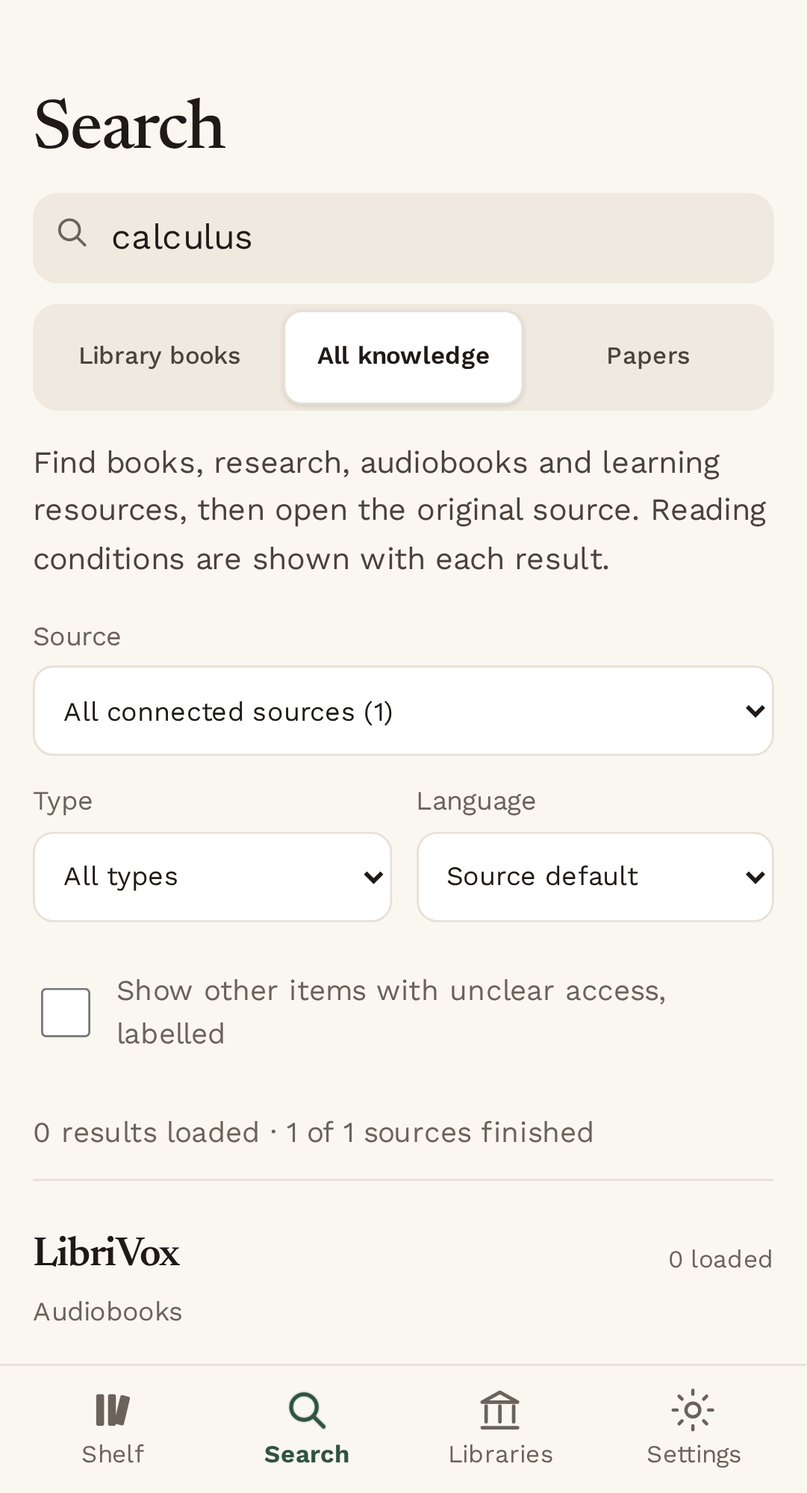
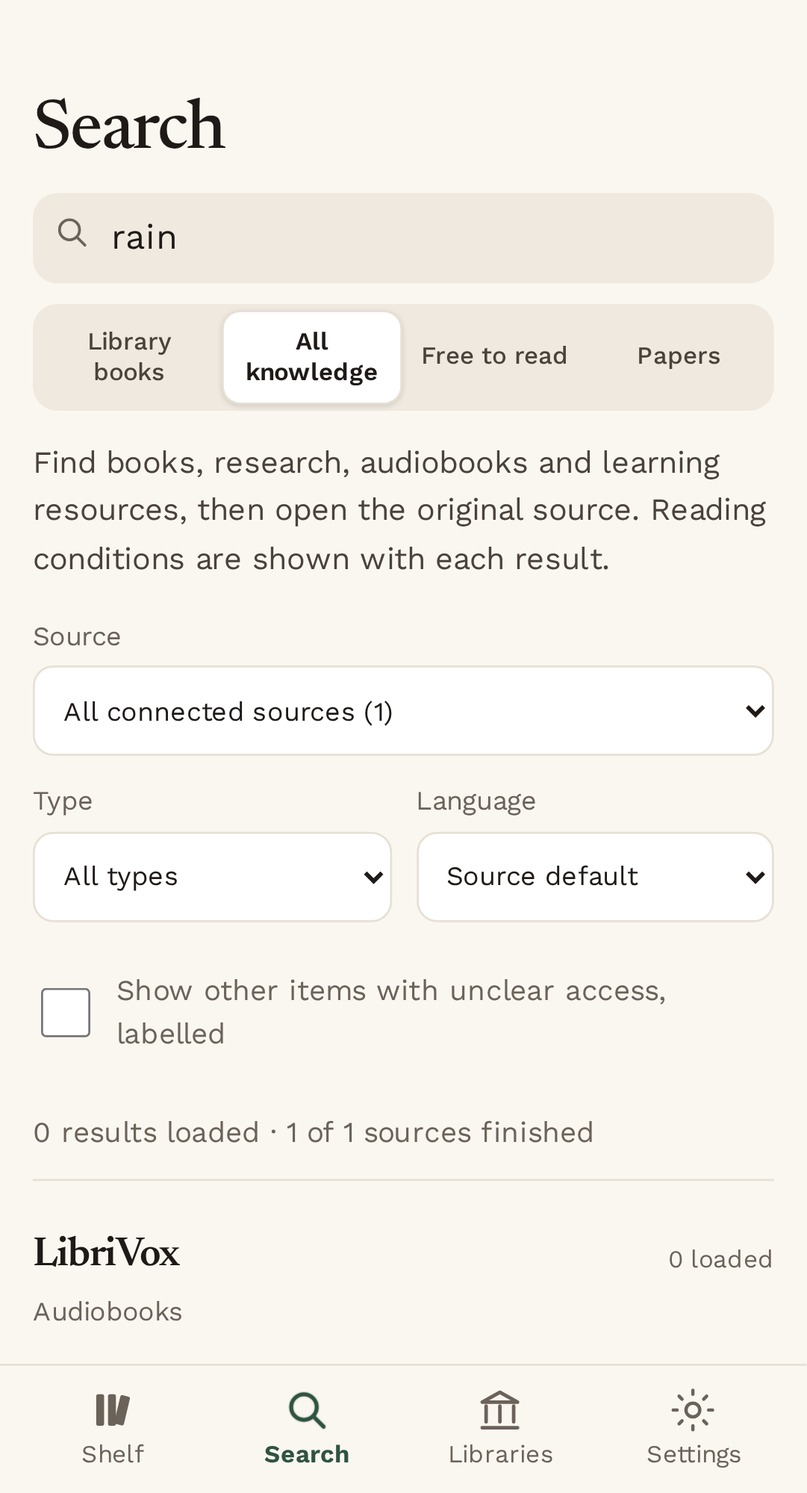
Keep checkbox-capable catalogs and remove the five below-target sources

Changed region(s): [[0.0916, 0.1551, 0.7021, 0.2791], [0.7632, 0.2171, 0.8853, 0.2481]]

diff --git a/client/src/v2/ui/content/ContentSearchPage.tsx b/client/src/v2/ui/content/ContentSearchPage.tsx
@@ -1,4 +1,4 @@
-import {localFreeSearchEnabled} from '../../../../../shared/content-source-availability.mjs';
+import {isContentSourceRetired} from '../../../../../shared/content-source-availability.mjs';
 import { useCallback, useEffect, useRef, useState } from 'react';
 import { Link, useLocation, useNavigate } from 'react-router-dom';
 import { contentApi } from '../../contentApi';
@@ -21,7 +21,7 @@ const recentSearches=new Map<string,{query:string;scope:'free'|'papers';href:str
 
 export function SearchScopes({scope}:{scope:'library'|'free'|'papers'|'knowledge'}){
   const location=useLocation();const q=new URLSearchParams(location.search).get('q');
-  return <nav className="content-scopes segment-control" aria-label="Search scope">{(['library','knowledge','free','papers'] as const).filter(value=>value!=='free'||localFreeSearchEnabled).map(value=>
+  return <nav className="content-scopes segment-control" aria-label="Search scope">{(['library','knowledge','free','papers'] as const).map(value=>
     <Link key={value} className={scope===value?'selected':''} aria-current={scope===value?'page':undefined}
       to={'/app/search'+(value!=='library'||q?'?'+new URLSearchParams({...value!=='library'?{scope:value}:{},...q?{q}:{}}):'')}>{value==='library'?'Library books':value==='knowledge'?'All knowledge':value==='free'?'Free to read':'Papers'}</Link>)}</nav>;
 }
@@ -92,7 +92,7 @@ export function ContentSearchPage({scope}:{scope:'free'|'papers'}) {
     {!query&&!children?<div className="content-start"><p>{scope==='papers'?m.papersIntro:m.startIntro}</p><h2 className="content-section-label">Browse</h2><div className="content-browse">
         <Link to="/app/search?scope=free&q=literature"><ShelfIcon/><strong>Classic literature</strong><span>Project Gutenberg</span></Link>
         <Link to="/app/search?scope=free&collection=textbooks&q=education"><svg width="28" height="28" viewBox="0 0 28 28" fill="none" stroke="currentColor" strokeWidth="1.8" strokeLinejoin="round" aria-hidden="true"><path d="m2 10 12-5 12 5-12 5zM7 13v7c4 3 10 3 14 0v-7M25 11v8"/></svg><strong>Open textbooks</strong><span>Open Textbook Library</span></Link>
-        {import.meta.env.VITE_CHILDREN_PILOT_ENABLED==='true'?<Link to="/app/search?scope=free&collection=children"><OpenBookIcon/><strong>Children’s stories</strong><span>Reviewed set · pilot</span></Link>:<span aria-disabled="true"><OpenBookIcon/><strong>Children’s stories</strong><span>Reviewed starter set · not enabled yet</span></span>}
+        {!isContentSourceRetired('storyweaver')&&(import.meta.env.VITE_CHILDREN_PILOT_ENABLED==='true'?<Link to="/app/search?scope=free&collection=children"><OpenBookIcon/><strong>Children’s stories</strong><span>Reviewed set · pilot</span></Link>:<span aria-disabled="true"><OpenBookIcon/><strong>Children’s stories</strong><span>Reviewed starter set · not enabled yet</span></span>)}
         <Link to="/app/search?scope=papers"><svg width="24" height="24" viewBox="0 0 24 24" fill="none" stroke="currentColor" strokeWidth="1.7" aria-hidden="true"><path d="M5 2h9l5 5v15H5zM14 2v6h5M9 12h6M9 16h6"/></svg><strong>Research papers</strong><span>Open-access journals, preprints</span></Link></div>
         {recentSearches.size>0&&<section className="content-recents"><h2 className="content-section-label">Recent free searches</h2><ul>{Array.from(recentSearches.values()).reverse().map(recent=><li key={recent.href}><Link to={recent.href}><span aria-hidden="true">◷</span><span>{recent.query}</span>{recent.scope==='papers'&&<small>Papers</small>}</Link></li>)}</ul></section>}</div>:<>
       {(children||language||kind||level||(!busy&&!error&&!failed.length&&!!page?.items.length))&&<div className="content-filters">{children?<div className="content-languages" role="group" aria-label="Language">{[['','All languages'],['en','English'],['hi','हिन्दी'],['ta','தமிழ்']].map(([value,label])=><button key={value} type="button" lang={value||undefined} aria-pressed={language===value} onClick={()=>setLanguage(value)}>{label}</button>)}</div>:<label><span className="visually-hidden">Language</span><select aria-label="Language" value={searchLanguage} disabled={scope==='papers'} aria-describedby={scope==='papers'?'content-language-help':undefined} title={scope==='papers'?'Language filtering across paper sources is not available yet.':undefined} onChange={e=>setLanguage(e.target.value)}>
@@ -104,10 +104,10 @@ export function ContentSearchPage({scope}:{scope:'free'|'papers'}) {
         {children&&<label><span className="visually-hidden">Publisher level</span><select aria-label="Publisher level" value={level} disabled={!page?.availableLevels?.length} onChange={e=>setLevel(e.target.value)}><option value="">All publisher levels</option>{page?.availableLevels?.map(label=><option key={label} value={label}>{label}</option>)}</select></label>}
       </div>}
       {children&&<p className="content-coverage">Levels are as the publisher labels them; they do not imply an age.</p>}
-      {textbooks&&<p className="content-coverage">Open textbooks · <Link to={'/app/search?scope=knowledge&q='+encodeURIComponent(query)}>Search all free books</Link>. This catalog export does not supply languages; a language filter excludes those records.</p>}
+      {textbooks&&<p className="content-coverage">Open textbooks · <Link to={'/app/search?scope=free&q='+encodeURIComponent(query)}>Search all free books</Link>. This catalog export does not supply languages; a language filter excludes those records.</p>}
       {busy&&<div className="content-loading" role="status"><p className="visually-hidden">Checking sources…</p><ul className="content-source-list">{progress.map(source=><li key={source.id}><span><span className={source.status==='ok'?'access-free':undefined} aria-hidden="true">{source.status==='ok'?'✓':source.status==='queued'?'–':'○'}</span>{' '}{sourceName(source)}</span><span>{source.status==='ok'?(source.returned?`${source.returned} found`:'Answered'):sourceStatus(source)}</span></li>)}</ul><p>{m.loading}</p><div className="content-skeletons" aria-hidden="true"><span/><span/><span/></div></div>}
       {error&&<div className={'content-notice content-outage'+(disabled||restartRequired?' content-disabled':'')} role="alert">{disabled||restartRequired?<OpenBookIcon/>:<svg width="40" height="40" viewBox="0 0 24 24" fill="none" stroke="currentColor" strokeWidth="1.8" strokeLinecap="round" aria-hidden="true"><path d="m3 3 18 18M2 8c5-5 15-5 20 0M5 12c3-3 11-3 14 0M8 16c2-2 6-2 8 0M12 20h.01"/></svg>}<h2>{errorTitle}</h2><p>{disabled&&scope==='papers'?'Choose a connected source in Sources, open a source website, or search free books.':error.message}</p>
-        {!disabled&&!restartRequired&&<p>This does not mean there is no free copy.</p>}<div className="content-outage-actions">{disabled?scope==='papers'&&<Link className="button-link" to={'/app/search?'+new URLSearchParams({scope:'knowledge',q:query})}>Search all knowledge instead</Link>:<button onClick={again}>{restartRequired?'Search again':'Try again'}</button>}<Link className="button-link button-quiet" to={'/app/search?q='+encodeURIComponent(query)}>Search library books instead</Link></div>
+        {!disabled&&!restartRequired&&<p>This does not mean there is no free copy.</p>}<div className="content-outage-actions">{disabled?scope==='papers'&&<Link className="button-link" to={'/app/search?'+new URLSearchParams({scope:'free',q:query})}>Search free books instead</Link>:<button onClick={again}>{restartRequired?'Search again':'Try again'}</button>}<Link className="button-link button-quiet" to={'/app/search?q='+encodeURIComponent(query)}>Search library books instead</Link></div>
         {sources.length>0&&<button className="text-button" onClick={()=>setSourcesOpen(true)}>Sources</button>}</div>}
       {page&&<div className={'content-results-layout'+(desktop&&selected?' has-detail':'')}><div className="content-results">
         {page.searchMode==='live'&&<p className="content-coverage">Searching {answered.map(sourceName).join(', ')||'the selected source'} live. One source per search; use Sources to switch. Results can change between pages.</p>}

diff --git a/client/e2e/free-content-ui.spec.js b/client/e2e/free-content-ui.spec.js
@@ -5,6 +5,14 @@ import {startReviewStream} from '../../tools/content/ui-review-stream.mjs';
 
 test.describe('approved free-content UI behavior',()=>{
   test.skip(process.env.FREE_CONTENT_E2E!=='true','Requires the feature-enabled build');
+  test('recent searches are real same-tab queries and clearing returns to browse',async({page,baseURL})=>{
+    await installContentReviewFixture(page,'FreeStart');await openReviewState(page,'FreeStart',baseURL);
+    await expect(page.getByRole('heading',{name:'Recent free searches'})).toBeVisible();
+    await page.getByRole('link',{name:/jane austen/}).click();await expect(page).toHaveURL(/q=jane\+austen/);
+    await page.reload();await page.getByLabel('Search free books',{exact:true}).fill('');await page.getByRole('button',{name:'Search',exact:true}).click();
+    await expect(page.getByRole('link',{name:/Classic literature/})).toBeVisible();
+    expect(await page.evaluate(()=>Object.values(localStorage).join(' ').includes('jane austen'))).toBe(false);
+  });
   test('type filtering changes the request and result kinds',async({page,baseURL})=>{
     const calls=await installContentReviewFixture(page,'PaperResults');await openReviewState(page,'PaperResults',baseURL);
     await page.getByLabel('Content type',{exact:true}).selectOption('preprint');
@@ -26,6 +34,26 @@ test.describe('approved free-content UI behavior',()=>{
     expect(calls.filter(call=>call.endpoint==='search').at(-1).body).toMatchObject({cursor:'synthetic-review-session',retrySource:'arxiv'});
     await expect(page.getByRole('heading',{name:'arXiv didn’t answer in time'})).toHaveCount(0);
   });
+  test('an empty successful search lists zero matches for each answered source',async({page,baseURL})=>{
+    await installContentReviewFixture(page,'NoFreeCopy');await openReviewState(page,'NoFreeCopy',baseURL);
+    await expect(page.locator('.content-empty .content-source-list li')).toHaveCount(2);
+    await expect(page.locator('.content-empty')).toContainText('Project Gutenberg');
+    await expect(page.locator('.content-empty')).toContainText('Open Textbook Library');
+    await expect(page.locator('.content-empty').getByText('0 matches',{exact:true})).toHaveCount(2);
+  });
+  test('desktop selection follows Back and survives resizing to a phone',async({page,baseURL})=>{
+    await page.setViewportSize({width:1280,height:900});await installContentReviewFixture(page,'FreeBookResults');
+    await openReviewState(page,'FreeBookResults',baseURL);
+    const row=await page.locator('.content-result').first().boundingBox();
+    await page.mouse.click(row.x+row.width-5,row.y+row.height-5);
+    await expect(page.locator('.content-detail h1')).toHaveText('Pride and Prejudice');
+    await expect(page.locator('.content-result.is-selected h2 a')).toHaveAttribute('aria-current','true');
+    await page.getByRole('heading',{name:'Emma',exact:true}).getByRole('link').click();await expect(page.locator('.content-detail h1')).toHaveText('Emma');
+    await page.goBack();await expect(page.locator('.content-detail h1')).toHaveText('Pride and Prejudice');
+    await page.setViewportSize({width:390,height:844});await expect(page.locator('.content-detail h1')).toHaveText('Pride and Prejudice');
+    await expect(page.locator('.content-read')).toBeVisible();await page.locator('.content-toolbar .back-link').click();
+    await expect(page.locator('.content-result')).toHaveCount(3);
+  });
   test('bookmark, supplied formats and separate versions remain usable by keyboard',async({page,baseURL})=>{
     await installContentReviewFixture(page,'PaperDetail');await openReviewState(page,'PaperDetail',baseURL);
     await expect(page.locator('.content-detail .content-cover')).toHaveCount(0);
@@ -44,6 +72,11 @@ test.describe('approved free-content UI behavior',()=>{
     await expect(page).toHaveURL(/source=openalex/);
     await expect.poll(()=>calls.filter(call=>call.endpoint==='search').at(-1).body.sourceIds).toEqual(['openalex']);
   });
+  test('unclear access stays opt-in and can be hidden again',async({page,baseURL})=>{
+    await installContentReviewFixture(page,'FreeBookResults');await openReviewState(page,'FreeBookResults',baseURL);
+    await page.getByRole('button',{name:'Show them, labelled'}).click();await expect(page.getByRole('region',{name:'Unclear access'})).toBeVisible();
+    await page.getByRole('button',{name:'Hide them',exact:true}).click();await expect(page.getByRole('region',{name:'Unclear access'})).toHaveCount(0);
+  });
   test('loading shows actual streamed progress and static placeholders',async({page,baseURL})=>{
     const stream=await startReviewStream({upstreamOrigin:baseURL});try{
       await installContentReviewFixture(page,'Loading',{loadingUrl:stream.url});await openReviewState(page,'Loading',stream.origin);
@@ -54,5 +87,4 @@ test.describe('approved free-content UI behavior',()=>{
       expect(await page.locator('.content-skeletons span').first().evaluate(node=>getComputedStyle(node).animationName)).toBe('none');
     }finally{await stream.close();}
   });
-  // Retired local-book discovery is covered by metadata-search.spec.js; saved story reading remains covered separately.
 });

diff --git a/server/services/content/search.js b/server/services/content/search.js
@@ -20,7 +20,7 @@ const PROFILE='direct-live-v1';
 export function createContentService({env=process.env,local,paperAdapter=createEuropePmcAdapter(),
   adapters={},children,knowledge,now=()=>Date.now()}={}){
   local||=createLocalContentService({enabled:env.CONTENT_DISCOVERY_ENABLED==='true',cursorSecret:env.CONTENT_CURSOR_SECRET,now,
-    loadSnapshot:()=>readLocalSnapshots({includeChildren:env.CONTENT_CHILDREN_ENABLED==='true',now:now()})});
+    loadSnapshot:()=>readLocalSnapshots({includeChildren:env.CONTENT_CHILDREN_ENABLED==='true'&&!isContentSourceRetired('storyweaver'),now:now()})});
   const expanded=knowledge||createKnowledgeService({env,now});
   const providers={europepmc:paperAdapter,openalex:createOpenalexAdapter({apiKey:env.OPENALEX_API_KEY}),...adapters};
   const pilot=children||createChildrenService({enabled:env.CONTENT_DISCOVERY_ENABLED==='true'&&env.CONTENT_CHILDREN_ENABLED==='true',cursorSecret:env.CONTENT_CURSOR_SECRET,now});
@@ -89,13 +89,13 @@ export function createContentService({env=process.env,local,paperAdapter=createE
     locate(input){parseContentLocate(input);return localFreeSearchEnabled?local.locate(input):{items:[],policyRevision:CONTENT_POLICY_REVISION};},
     async search(input,{onSource=()=>{},signal}={}){
       const query=parseContentSearch(input);
-      if(query.sourceIds?.some(isContentSourceRetired)||query.collection==='children'&&!localFreeSearchEnabled||!localFreeSearchEnabled&&(!query.sourceIds?.length)&&(query.kinds.includes('book')||query.kinds.includes('learning_resource')))throw failure('CONTENT_DISABLED','This source is no longer connected. Search the connected sources in All knowledge.',503);
+      if(query.sourceIds?.some(isContentSourceRetired)||query.collection==='children'&&isContentSourceRetired('storyweaver')||!localFreeSearchEnabled&&(!query.sourceIds?.length)&&(query.kinds.includes('book')||query.kinds.includes('learning_resource')))throw failure('CONTENT_DISABLED','This source is no longer connected. Search the connected sources in All knowledge.',503);
       if(query.sourceIds?.some(id=>KNOWLEDGE_SOURCES[id]))return expanded.search(input,{onSource,signal});
       if(query.collection==='children')return pilot.search(input);
       if(query.kinds.includes('book')||query.kinds.includes('learning_resource')){
         if(query.kinds.some(kind=>!['book','learning_resource'].includes(kind)))throw failure('CONTENT_FILTER_UNSUPPORTED','Choose free books or paper kinds for this search.',400);
         if(query.sourceIds?.some(id=>!LOCAL_CONTENT_SOURCES.includes(id))||query.retrySource)throw failure('CONTENT_FILTER_UNSUPPORTED','Paper source filters do not apply to book search.',400);
-        return local.search(input);
+        const page=local.search(input);return {...page,sources:page.sources.filter(s=>!isContentSourceRetired(s.id))};
       }
       ready();const id=selected(query);
       if(!enabled(id))throw failure('CONTENT_DISABLED','This paper source is not connected here. Choose another source or open its website.',503,rows(id,query));

diff --git a/client/e2e/free-content-relevance.spec.js b/client/e2e/free-content-relevance.spec.js
@@ -4,10 +4,9 @@ import {installContentReviewFixture,reviewBook} from './free-content-ui-fixture.
 
 test.describe('free-content relevance and disabled search',()=>{
   test.skip(process.env.FREE_CONTENT_E2E!=='true','Requires the feature-enabled build');
-  for(const light of ['daylight','lamplight','ink'])test(`disabled papers lead to connected knowledge and explain subject matches in ${light}`,async({page})=>{
+  for(const light of ['daylight','lamplight','ink'])test(`disabled papers lead to free books and explain subject matches in ${light}`,async({page})=>{
     await page.addInitScript(light=>localStorage.setItem('mybookshelf.appearance.v1',JSON.stringify({version:1,preference:light})),light);
     await installContentReviewFixture(page,'FreeBookResults');
-    await page.route('**/api/v2/content/sources',route=>route.fulfill({json:{sources:[{id:'loc',name:'Library of Congress',kinds:['book'],languages:[],mode:'live',enabled:true,scope:'Books'}]}}));
     await page.route('**/api/v2/content/search',route=>{
       const body=route.request().postDataJSON();
       if(body.kinds.includes('article'))return route.fulfill({status:503,json:{error:{code:'CONTENT_DISABLED',message:'Paper search is not connected yet.'},sources:[{id:'arxiv',status:'disabled',returned:0}]}});
@@ -18,9 +17,9 @@ test.describe('free-content relevance and disabled search',()=>{
     await expect(page.getByRole('heading',{name:'Paper search isn’t enabled yet'})).toBeVisible();
     await expect(page.getByRole('button',{name:'Try again',exact:true})).toHaveCount(0);
     await expect(page.getByRole('heading',{name:'Free-reading sources aren’t answering'})).toHaveCount(0);
-    await page.getByRole('link',{name:'Search all knowledge instead'}).click();
-    await expect(page).toHaveURL(/scope=knowledge&q=Mathematics/);
-    await expect(page.getByLabel('Search all knowledge',{exact:true})).toHaveValue('Mathematics');
+    await page.getByRole('link',{name:'Search free books instead'}).click();
+    await expect(page).toHaveURL(/scope=free&q=Mathematics/);
+    await expect(page.getByLabel('Search free books',{exact:true})).toHaveValue('Mathematics');
     await expect(page.getByText('Subject: Mathematics',{exact:true})).toBeVisible();
     expect(await page.locator('#main-content').evaluate(node=>node.scrollWidth<=node.clientWidth)).toBe(true);
     expect((await new AxeBuilder({page}).include('#main-content').withTags(['wcag2a','wcag2aa','wcag21aa']).analyze()).violations).toEqual([]);

diff --git a/server/services/content/retiredSources.test.js b/server/services/content/retiredSources.test.js
@@ -4,9 +4,9 @@ import {createContentService} from './search.js';
 import {createKnowledgeService} from './knowledgeSearch.js';
 import {retiredContentSources} from '../../../shared/content-source-availability.mjs';
 const env={CONTENT_DISCOVERY_ENABLED:'true',CONTENT_KNOWLEDGE_ENABLED:'true',CONTENT_EUROPEPMC_ENABLED:'true',CONTENT_OPENALEX_ENABLED:'true',CONTENT_CHILDREN_ENABLED:'true',CONTENT_CURSOR_SECRET:'synthetic-retirement-secret-more-than-32-characters'};
-test('production directory contains 31 enabled sources and omits all eight retired connectors even with old flags on',()=>{
+test('production directory contains 34 enabled sources and omits all five retired connectors even with old flags on',()=>{
  const list=createContentService({env}).sources().sources;
- assert.equal(list.filter(s=>s.enabled).length,31);
+ assert.equal(list.filter(s=>s.enabled).length,34);
  for(const id of Object.keys(retiredContentSources))assert.equal(list.some(s=>s.id===id),false,id);
  for(const id of ['metmuseum','librivox','project-madurai','open-book-publishers','europepmc','openalex'])assert.ok(list.find(s=>s.id===id)?.enabled,id);
 });
@@ -17,8 +17,7 @@ test('public search rejects retired explicit, legacy implicit and pilot queries 
   await assert.rejects(api.search({query:'the',sourceIds:[id],kinds:[id==='core'?'article':'book'],...extra}),e=>e.code==='CONTENT_DISABLED');
  }
  await assert.rejects(api.search({query:'',collection:'children'}),e=>e.code==='CONTENT_DISABLED');
- await assert.rejects(api.search({query:'the',kinds:['book']}),e=>e.code==='CONTENT_DISABLED');
- assert.deepEqual(api.locate({isbn13:'9780140328721'}).items,[]);assert.throws(()=>api.locate({}),e=>e.code==='CONTENT_INVALID_REQUEST');assert.equal(calls,0);
+assert.equal(calls,0);
 });
 test('knowledge entry point also blocks retired sources while saved record resolution remains available',async()=>{
  let calls=0;const adapters=Object.fromEntries(['core','openstax','mediastudies-press','sugamya-pustakalaya'].map(id=>[id,{search:async()=>{calls++;return {items:[]};}}]));

diff --git a/client/src/v2/ui/scan/ScanPage.tsx b/client/src/v2/ui/scan/ScanPage.tsx
@@ -1,4 +1,4 @@
-import {localFreeSearchEnabled,isContentSourceRetired} from '../../../../../shared/content-source-availability.mjs';
+import {isContentSourceRetired} from '../../../../../shared/content-source-availability.mjs';
 import { exampleBooks } from '../../exampleBooks';
 import { useCallback, useEffect, useRef, useState } from 'react';
 import { Navigate, Link, useLocation, useNavigate } from 'react-router-dom';
@@ -22,7 +22,7 @@ export function ScanPage() {
   const location = useLocation();
   const params = new URLSearchParams(location.search);
   const scope = params.get('scope');
-  if(import.meta.env.VITE_CONTENT_DISCOVERY_ENABLED==='true'&&scope==='free'&&!localFreeSearchEnabled){params.set('scope','knowledge');params.delete('collection');params.delete('level');params.delete('item');if(isContentSourceRetired(params.get('source')))params.delete('source');return <Navigate replace to={'/app/search?'+params}/>;}
+  if(import.meta.env.VITE_CONTENT_DISCOVERY_ENABLED==='true'&&scope==='free'&&params.get('collection')==='children'&&isContentSourceRetired('storyweaver')){params.set('scope','knowledge');params.delete('collection');params.delete('level');params.delete('item');params.delete('source');return <Navigate replace to={'/app/search?'+params}/>;}
   if(import.meta.env.VITE_CONTENT_DISCOVERY_ENABLED==='true'&&scope==='knowledge'&&isContentSourceRetired(params.get('source'))){params.delete('source');return <Navigate replace to={'/app/search?'+params}/>;}
   if (import.meta.env.VITE_CONTENT_DISCOVERY_ENABLED === 'true' && scope === 'knowledge') return <KnowledgeSearchPage/>;
   if (import.meta.env.VITE_CONTENT_DISCOVERY_ENABLED === 'true' && (scope === 'free' || scope === 'papers')) return <ContentSearchPage key={scope} scope={scope} />;

diff --git a/server/services/content/children.test.js b/server/services/content/children.test.js
@@ -55,7 +55,7 @@ test('service retires pilot discovery but preserves previously saved story resol
   const service=createContentService({children:make(),local:{search:()=>{throw Error('must not call local books');}}});
   await assert.rejects(service.search({query:'',collection:'children'}),e=>e.code==='CONTENT_DISABLED');
   assert.equal((await service.resolve({key:'fcd:v1:storyweaver:7777771'})).item.title,'Synthetic English pilot fixture');
-  await assert.rejects(service.search({query:'x',kinds:['book','article']}),e=>e.code==='CONTENT_DISABLED');
+  await assert.rejects(service.search({query:'x',kinds:['book','article']}),e=>e.code==='CONTENT_FILTER_UNSUPPORTED');
 });
 
 function accountManifest(){
@@ -87,7 +87,7 @@ test('retired stories cannot be discovered but saved record identity and reading
   const reviewed=readChildrenManifest();const reviewedNow=Math.max(...reviewed.records.map(record=>Date.parse(record.review.reviewedAt)));
   const service=createContentService({env:{CONTENT_DISCOVERY_ENABLED:'true',CONTENT_CHILDREN_ENABLED:'true',CONTENT_CURSOR_SECRET:'test-free-book-search-without-store-secret'},now:()=>reviewedNow,
     paperAdapter:{search:()=>{throw Error('Saved story lookup must not contact live papers');}}});
-  await assert.rejects(service.search({query:'குண்டு',access:'free',languages:['ta']}),e=>e.code==='CONTENT_DISABLED');
+  assert.equal((await service.search({query:'குண்டு',access:'free',languages:['ta']})).items.length,0);
   const result=await service.resolve({key:'fcd:v1:storyweaver:2252'});
   assert.equal(result.item.access,'free_account_required');
   assert.equal(result.item.contributors.find(c=>c.role==='translator').name,'Manickavasagam Deivanayagam');

diff --git a/client/e2e/metadata-search.spec.js b/client/e2e/metadata-search.spec.js
@@ -13,8 +13,8 @@ test.describe('retired source removal',()=>{
   await page.goto('/app/search?scope=knowledge');
   await expect(page.getByRole('combobox',{name:'Source',exact:true})).toHaveText(/All connected sources \(1\)/);
   for(const id of Object.keys(retired))await expect(page.locator(`select option[value="${id}"]`)).toHaveCount(0);
-  await expect(page.getByRole('navigation',{name:'Search scope'}).getByRole('link',{name:'Free to read',exact:true})).toHaveCount(0);
-  for(const path of ['scope=knowledge&source=core&q=history','scope=free&q=history','scope=free&collection=children&q=rain','scope=free&collection=textbooks&q=calculus&source=open-textbook-library']){
+  await expect(page.getByRole('navigation',{name:'Search scope'}).getByRole('link',{name:'Free to read',exact:true})).toHaveCount(1);
+  for(const path of ['scope=knowledge&source=core&q=history','scope=free&collection=children&q=rain']){
    await page.goto('/app/search?'+path);await expect(page).toHaveURL(/scope=knowledge/);await expect(page.getByLabel('Search all knowledge',{exact:true})).toBeVisible();
   }
   expect(calls.length).toBeGreaterThan(0);expect(calls.every(c=>c.sourceIds?.length===1&&c.sourceIds[0]==='librivox'&&!c.collection)).toBe(true);

diff --git a/client/e2e/free-content.spec.js b/client/e2e/free-content.spec.js
@@ -85,7 +85,7 @@ test.describe('free-content discovery',()=>{
     await expect(page.getByRole('button',{name:'Sources',exact:true})).toBeVisible();
     expect(await page.locator('#main-content').evaluate(node=>node.scrollWidth<=node.clientWidth)).toBe(true);
   });
-  test('previously saved stories retain their source condition and shelf compatibility',async({page})=>{
+  test('saved stories keep source reading conditions after discovery retirement',async({page})=>{
     const story={...fixture,key:'fcd:v1:storyweaver:7777778',kind:'book',title:'Synthetic free-account browser story',access:'free_account_required',
       locations:[{...fixture.locations[0],id:'story',host:'StoryWeaver',access:'free_account_required',landingUrl:'https://storyweaver.org.in/en/stories/7777778-synthetic-fixture'}],
       readingActions:[{locationId:'story',label:'Read at StoryWeaver',url:'https://storyweaver.org.in/en/stories/7777778-synthetic-fixture',requiresAccount:true,downloads:[]}]};

diff --git a/client/src/v2/ui/content/ContentFlows.test.tsx b/client/src/v2/ui/content/ContentFlows.test.tsx
@@ -113,7 +113,7 @@ it('disabled paper search offers free books with the same query instead of an ou
     message:'Paper search is not connected yet.',sources:[{id:'arxiv',status:'disabled',returned:0}]}));
   mount(<ContentSearchPage scope="papers"/>,'/app/search?scope=papers&q=Mathematics');
   await screen.findByRole('heading',{name:'Paper search isn’t enabled yet'});
-  expect(screen.getByRole('link',{name:'Search all knowledge instead'})).toHaveAttribute('href','/app/search?scope=knowledge&q=Mathematics');
+  expect(screen.getByRole('link',{name:'Search free books instead'})).toHaveAttribute('href','/app/search?scope=free&q=Mathematics');
   expect(screen.queryByRole('button',{name:'Try again'})).not.toBeInTheDocument();
   expect(screen.queryByText('Free-reading sources aren’t answering')).not.toBeInTheDocument();
 });

diff --git a/client/src/v2/knowledgeSearch.test.ts b/client/src/v2/knowledgeSearch.test.ts
@@ -16,7 +16,4 @@ describe('cross-source search',()=>{
  });
 });
 
-it('filters retired source options even if an old server response still advertises them',async()=>{
- const fetch=vi.spyOn(globalThis,'fetch').mockResolvedValue(Response.json({sources:[{...sources[0],id:'core'},{...sources[0],id:'librivox'}]}));
- try{expect((await knowledgeSources(new AbortController().signal)).map(s=>s.id)).toEqual(['librivox']);}finally{fetch.mockRestore();}
-});
+it('filters retired source options from an older directory response',async()=>{const fetch=vi.spyOn(globalThis,'fetch').mockResolvedValue(Response.json({sources:[{...sources[0],id:'core'},{...sources[0],id:'librivox'}]}));try{expect((await knowledgeSources(new AbortController().signal)).map(s=>s.id)).toEqual(['librivox']);}finally{fetch.mockRestore();}});

diff --git a/server/public-v2/content.test.js b/server/public-v2/content.test.js
@@ -62,6 +62,6 @@ test('knowledge source directory is public and no-store, with policy holds disti
   assert.equal(response.status,200);assert.equal(response.headers['cache-control'],'no-store');assert.equal(response.headers['set-cookie'],undefined);
   assert.equal(response.body.sources.find(s=>s.id==='librivox').enabled,true);
   assert.equal(response.body.sources.find(s=>s.id==='wikipedia').enabled,false);
-  assert.equal(response.body.sources.some(s=>s.id==='gutenberg'),false);
+  assert.equal(response.body.sources.find(s=>s.id==='gutenberg').mode,'snapshot');
   assert.ok(!response.text.includes('synthetic-directory-secret'));
 });
